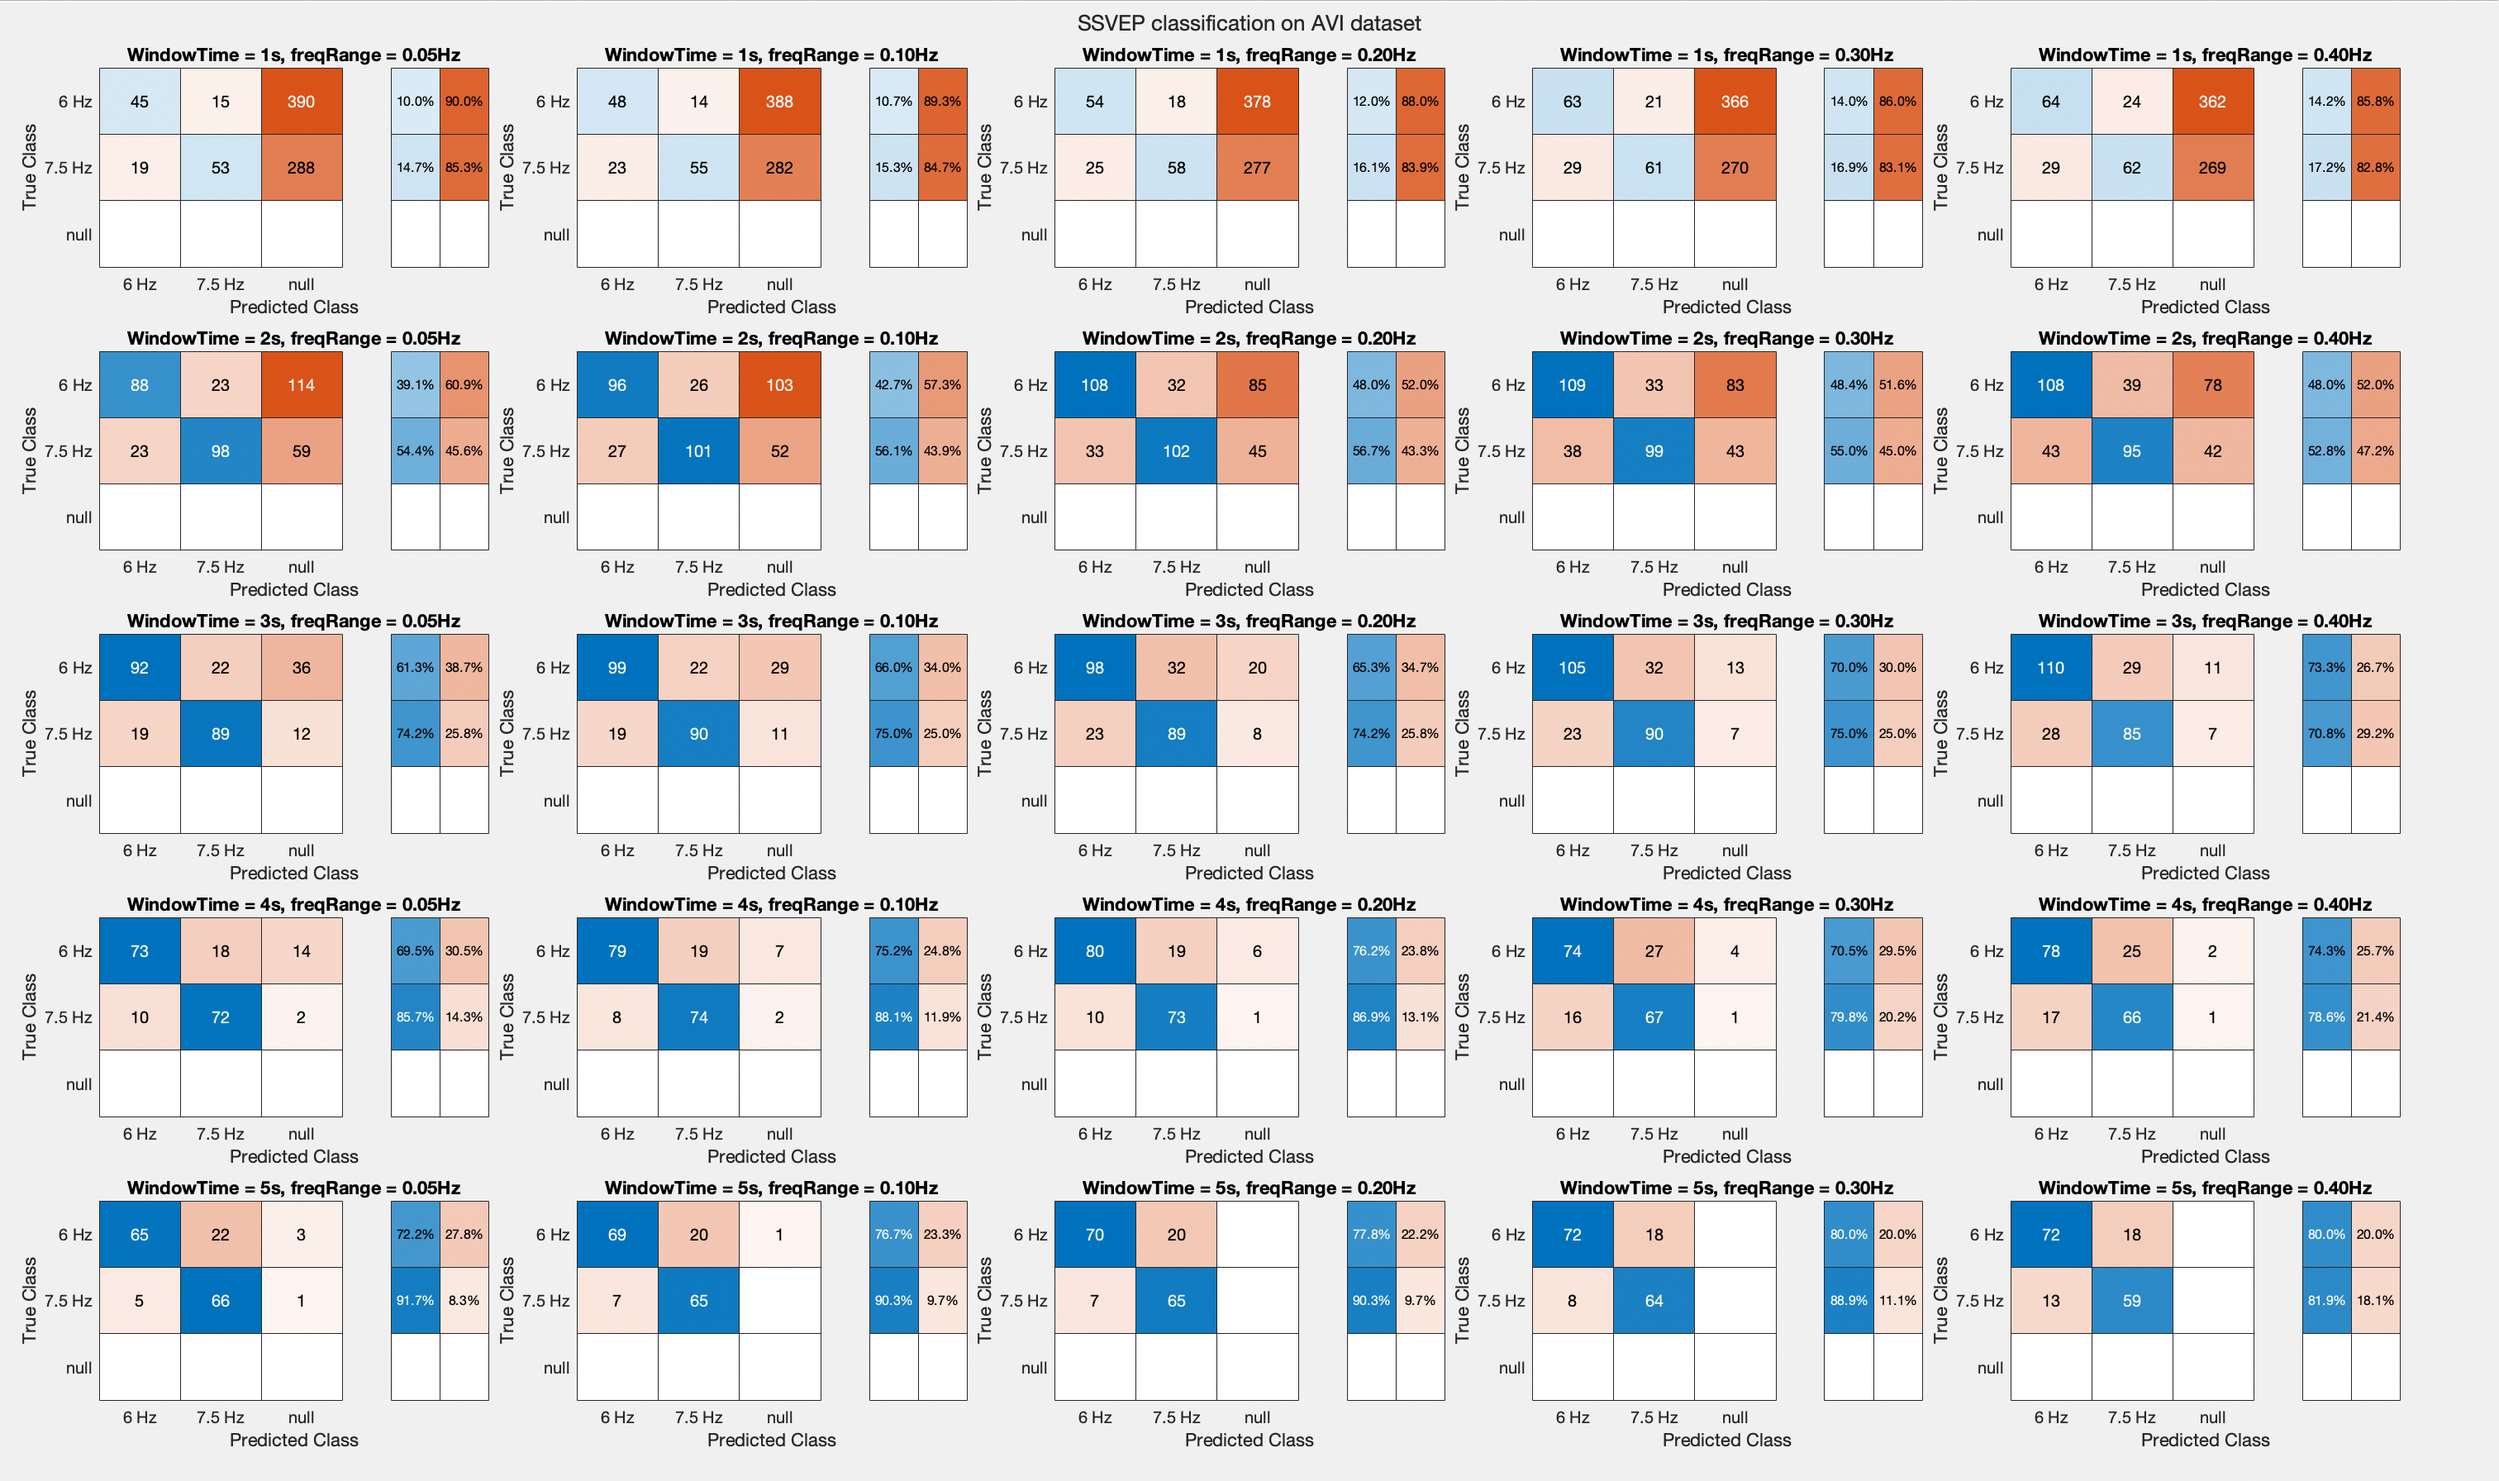
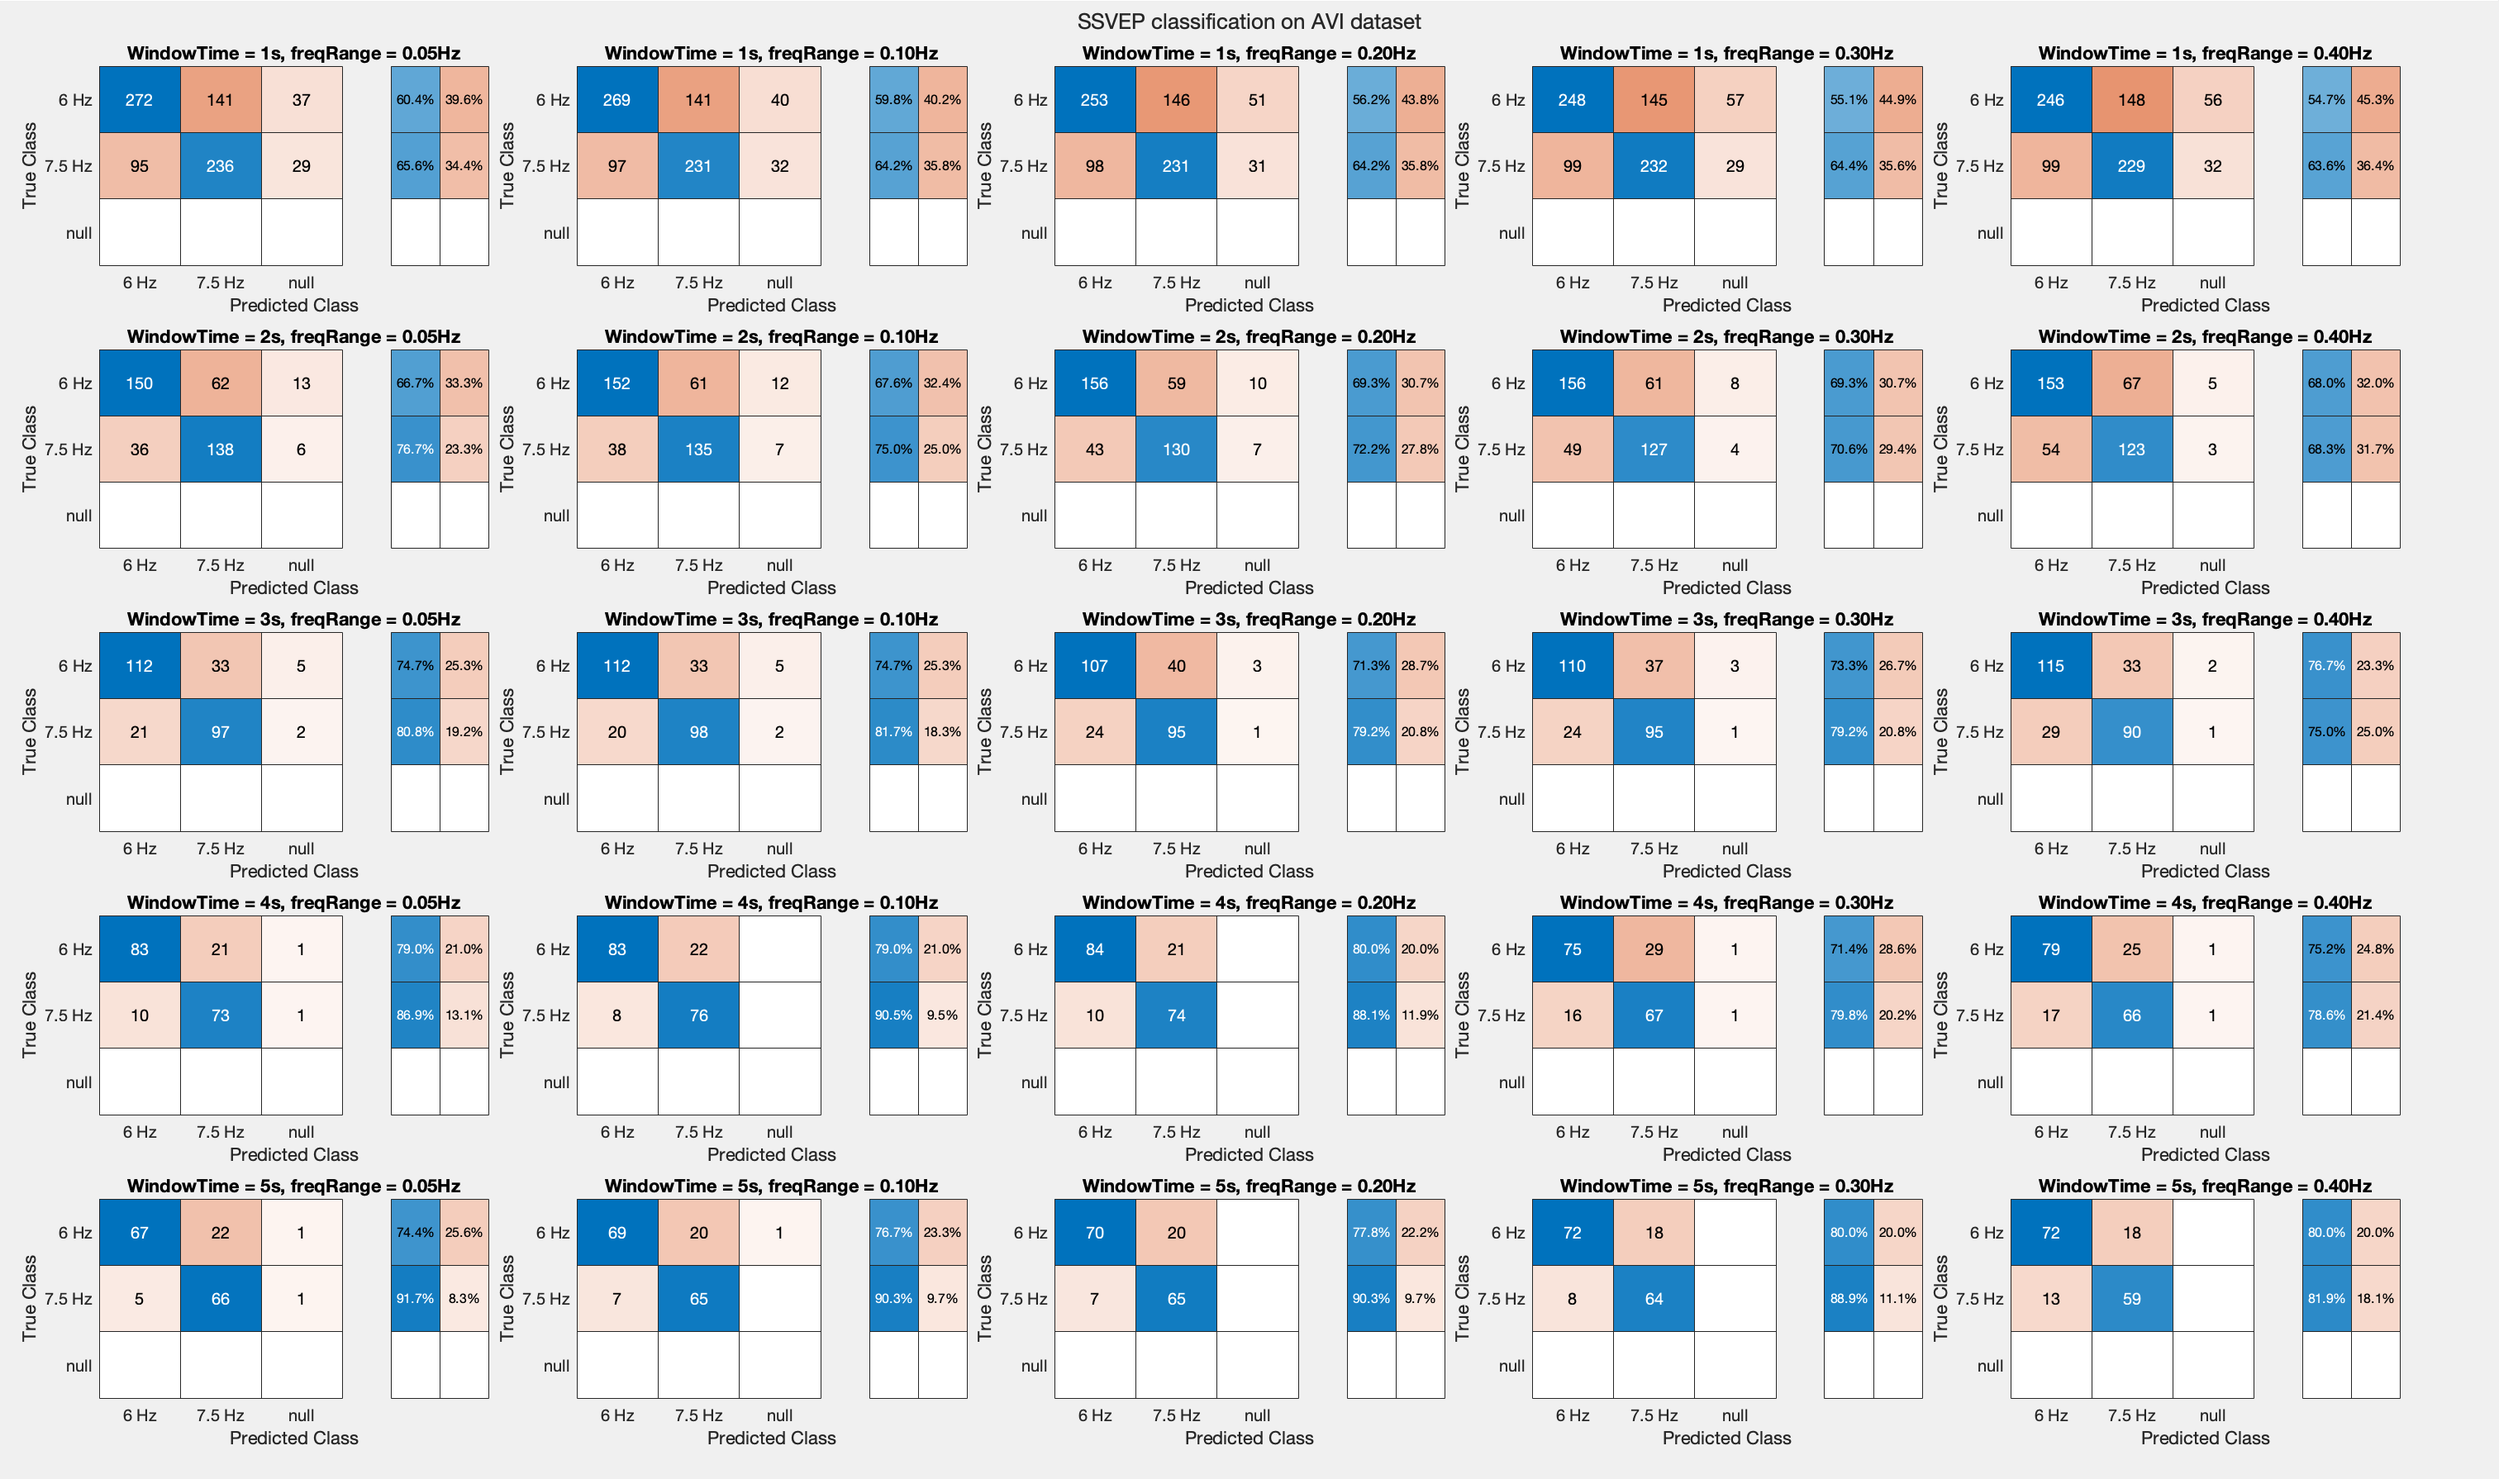
corrected classification on AVI SSVEP dataset

diff --git a/AVI_SSVEP_classification.m b/AVI_SSVEP_classification.m
@@ -1,30 +1,4 @@
-%% Train decision tree on my dataset
-clearvars
-clc
-close all
-
-fs = 512;
-windowTime = 5;
-freqRange = .1;
-
-[X1,Y1] = createDataset(6, windowTime, freqRange, fs);
-[X2,Y2] = createDataset(7.4, windowTime, freqRange, fs);
-bestThreshold6 = find_best_threshold(X1, Y1, 1);
-bestThreshold7_4 = find_best_threshold(X2, Y2, 1);
-
-X = cat(2, X1, X2); % input matrix: maximum values of fft around targetFreqs
-Y = Y1 + (2*Y2); % labels: 1=6Hz, 2=7.4Hz, 0=no_freq
-y_pred = SSVEP_classifier(X, bestThreshold6, bestThreshold7_4);
-
-% Compute confusion matrix
-figure()
-C = confusionmat(Y, y_pred, "Order", [1 2 0]);
-cm = confusionchart(C,["6 Hz" "7.4 Hz" "null"]);
-cm.RowSummary = 'row-normalized';
-cm.Title = sprintf("WindowTime = %ds, freqRange = %.2fHz", windowTime, freqRange);
-title("My dataset")
-
-%% Create [X_test,Y_test] from AVI dataset and test the classifier on that dataset
+%% Classification of SSVEP signals on AVI SSVEP dataset using decision tree
 
 fs = 512;
 windowTimes = [1 2 3 4 5];
@@ -35,11 +9,22 @@ t = tiledlayout(5, 5, TileSpacing="compact", Padding="compact");
 for windowTime = windowTimes
     for freqRange = freqRanges
         nexttile
+        
+        % Create [X,Y] from my dataset
+        [X1,Y1] = createDataset(6, windowTime, freqRange, fs);
+        [X2,Y2] = createDataset(7.4, windowTime, freqRange, fs);
+
+        % Search for the best threshold on my dataset
+        bestThreshold6 = find_best_threshold(X1, Y1, 1);
+        bestThreshold7_4 = find_best_threshold(X2, Y2, 1);
+
+        % Create [X_test,Y_test] on AVI SSVEP dataset
         [X1_test,Y1_test] = createAVIDataset(6, windowTime, freqRange, fs);
         [X2_test,Y2_test] = createAVIDataset(7.5, windowTime, freqRange, fs);
-        
         X_test = cat(2, X1_test, X2_test); % input matrix: maximum values of fft around targetFreqs
         Y_test = Y1_test + (2*Y2_test); % labels: 1=6Hz, 2=7.4Hz
+
+        % Classify the test data
         y_test_pred = SSVEP_classifier(X_test, bestThreshold6, bestThreshold7_4);
         
         % Compute confusion matrix
@@ -47,7 +32,6 @@ for windowTime = windowTimes
         cm = confusionchart(C,["6 Hz" "7.5 Hz" "null"]);
         cm.RowSummary = 'row-normalized';
         cm.Title = sprintf("WindowTime = %ds, freqRange = %.2fHz", windowTime, freqRange);
-%         sgtitle(sprintf("SSVEP classification (windowTime = %ds, freqRange = %.2fHz)", windowTime, freqRange))
     end
 end
 title(t, "SSVEP classification on AVI dataset")
